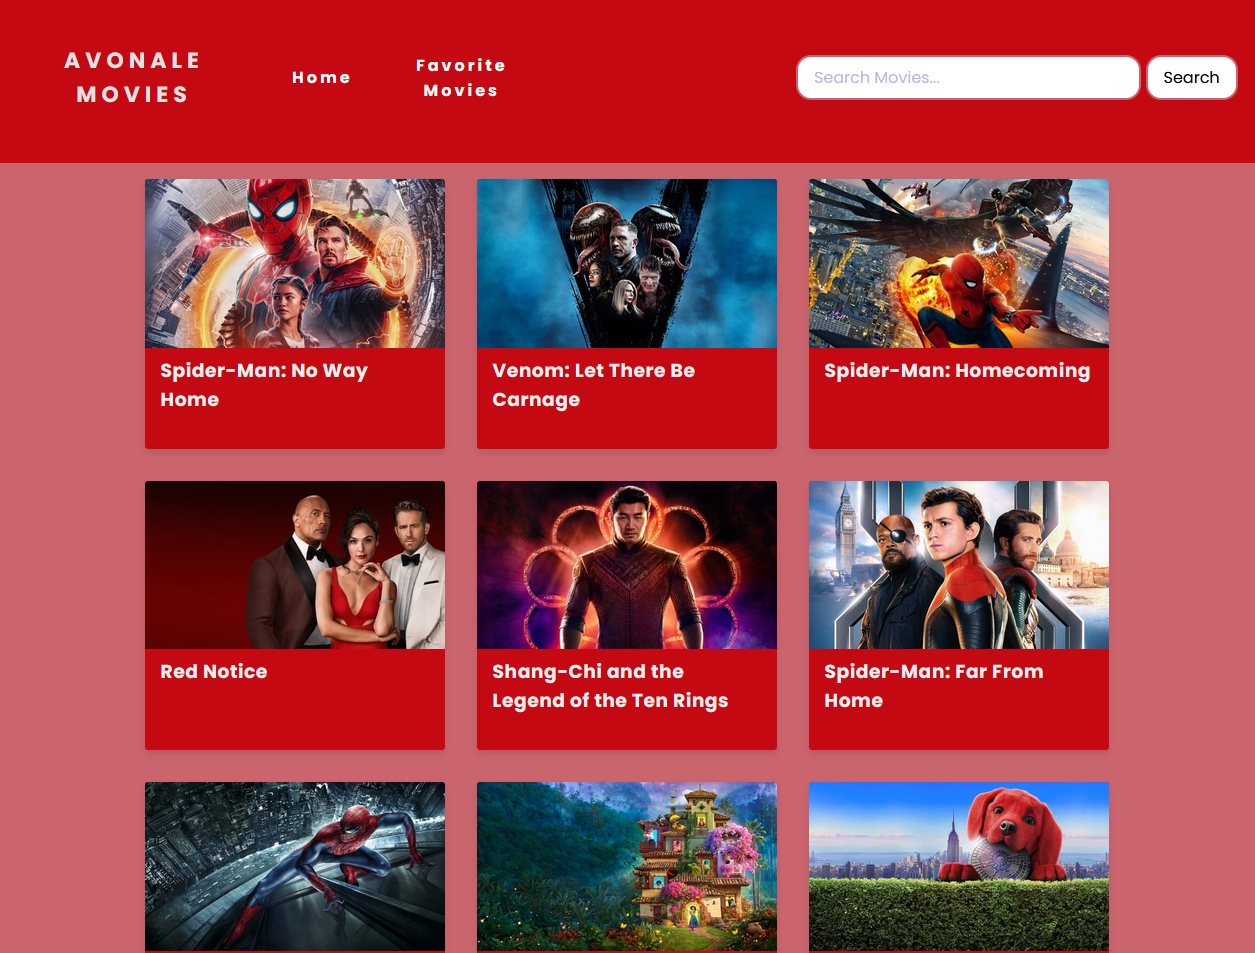
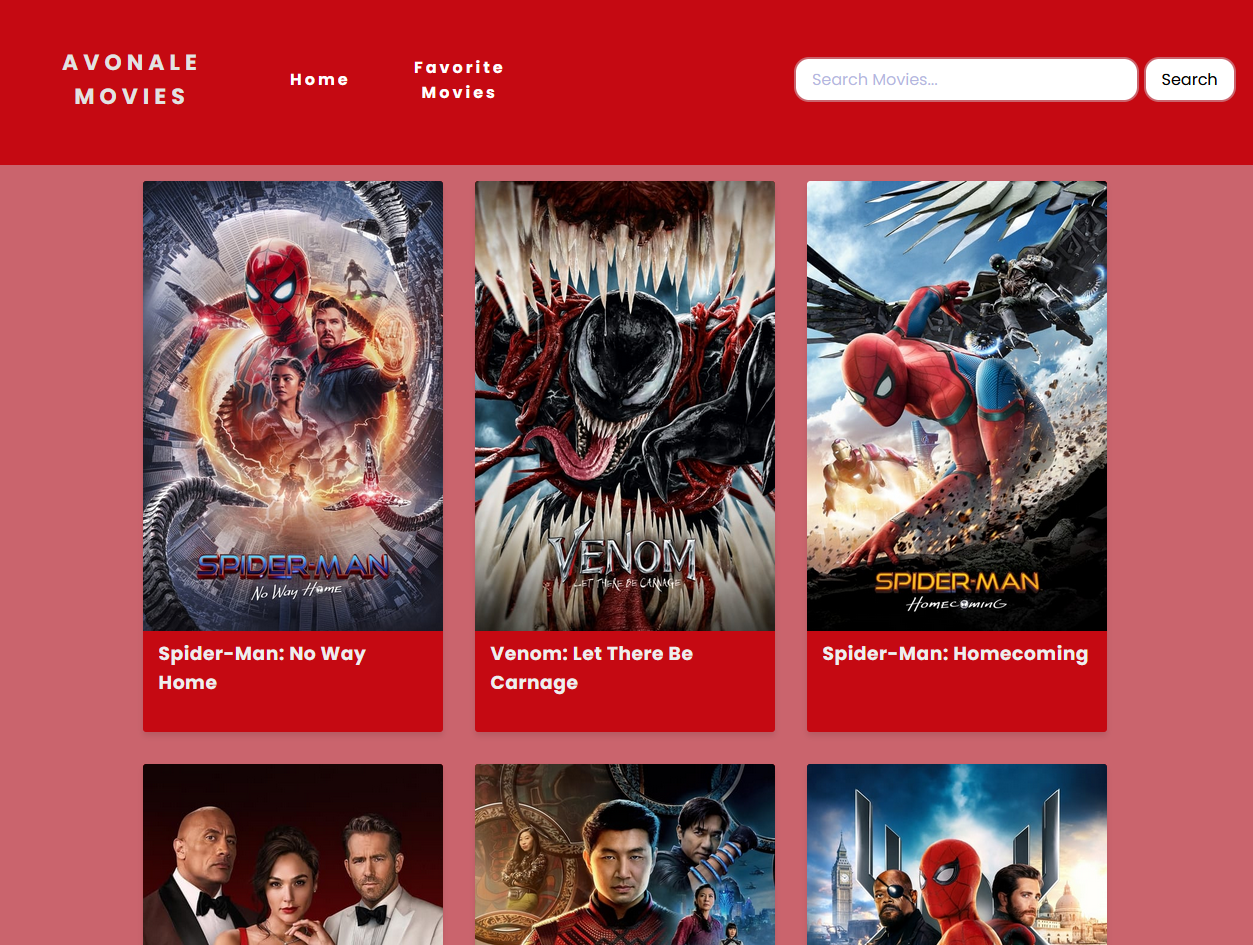
style: poster_path change

diff --git a/src/app.js b/src/app.js
@@ -19,12 +19,15 @@ var app = new Vue({
   },
   methods: {
     getMovies: function (url) {
-      fetch(url)
+      const x = fetch(url)
         .then((res) => res.json())
         .then((data) => {
           this.movieList = data.results;
           this.isLoading = false;
         });
+      
+      console.log(x)
+
     },
     handleHomeButtonClick: function () {
       this.getMovies(API_URL);

diff --git a/index.html b/index.html
@@ -42,7 +42,7 @@
           v-if="currentPage === '/home'"
         >
           <img
-            :src="'https://image.tmdb.org/t/p/w500' + movie.backdrop_path"
+            :src="'https://image.tmdb.org/t/p/w500' + movie.poster_path"
             :alt="movie.title"
           />
           <div class="movie-info">
